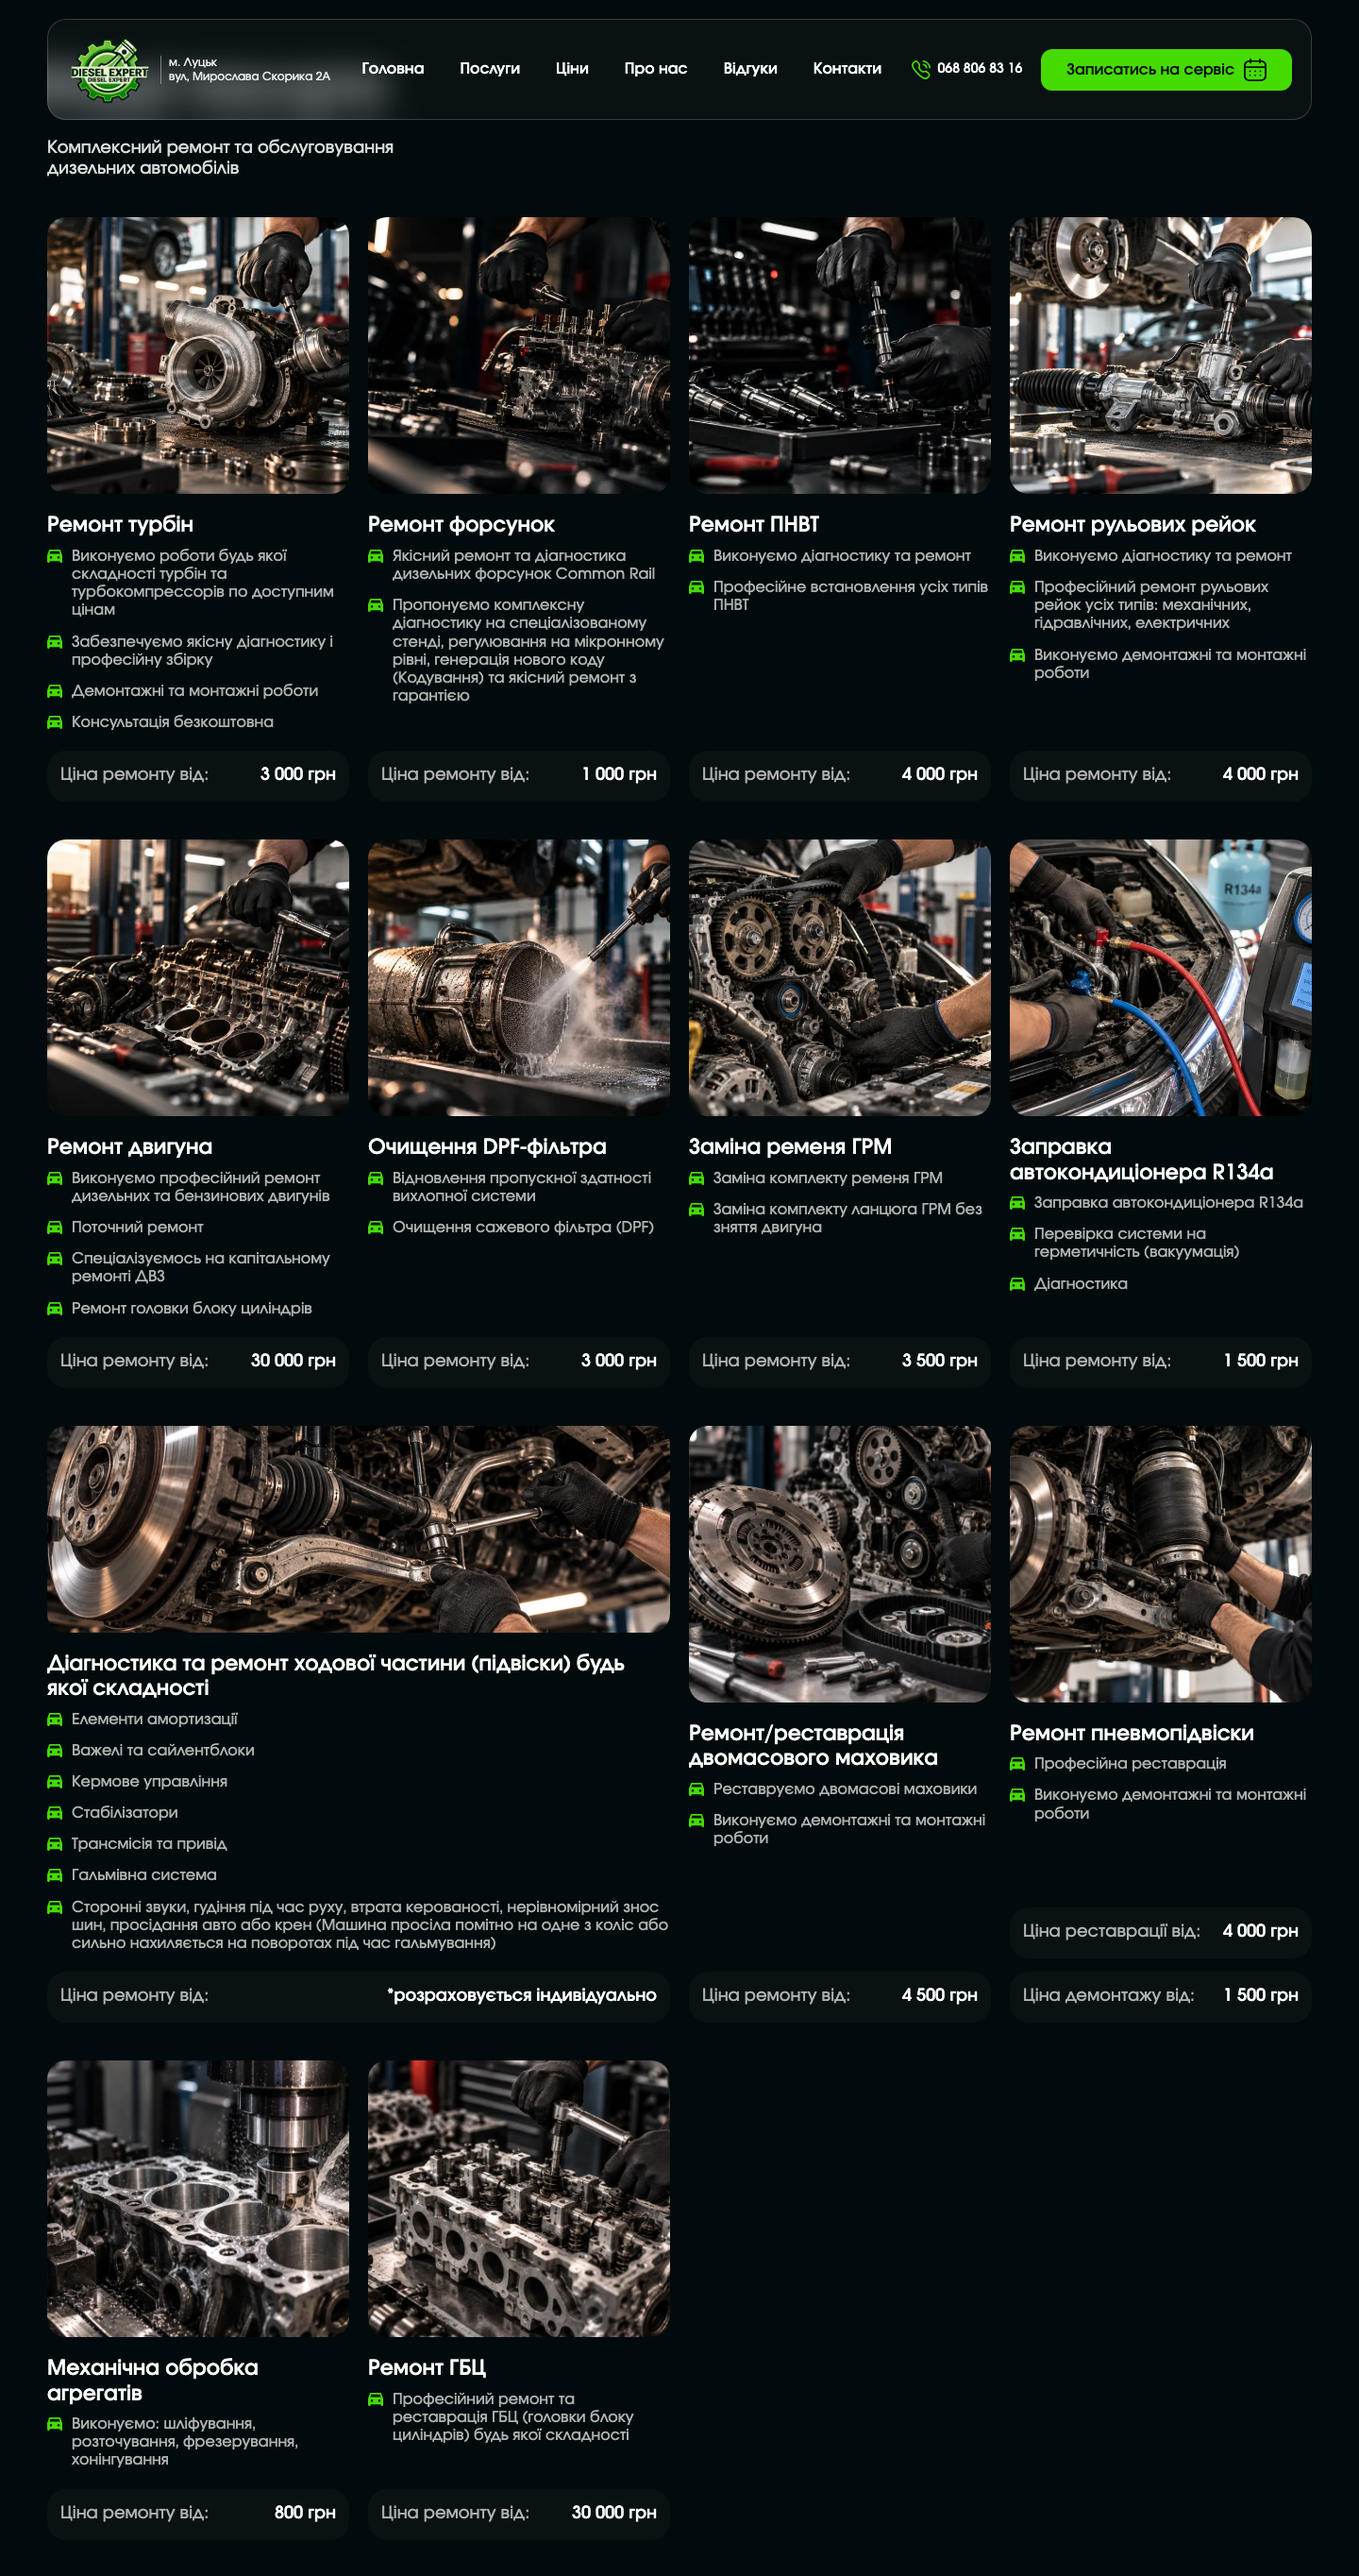
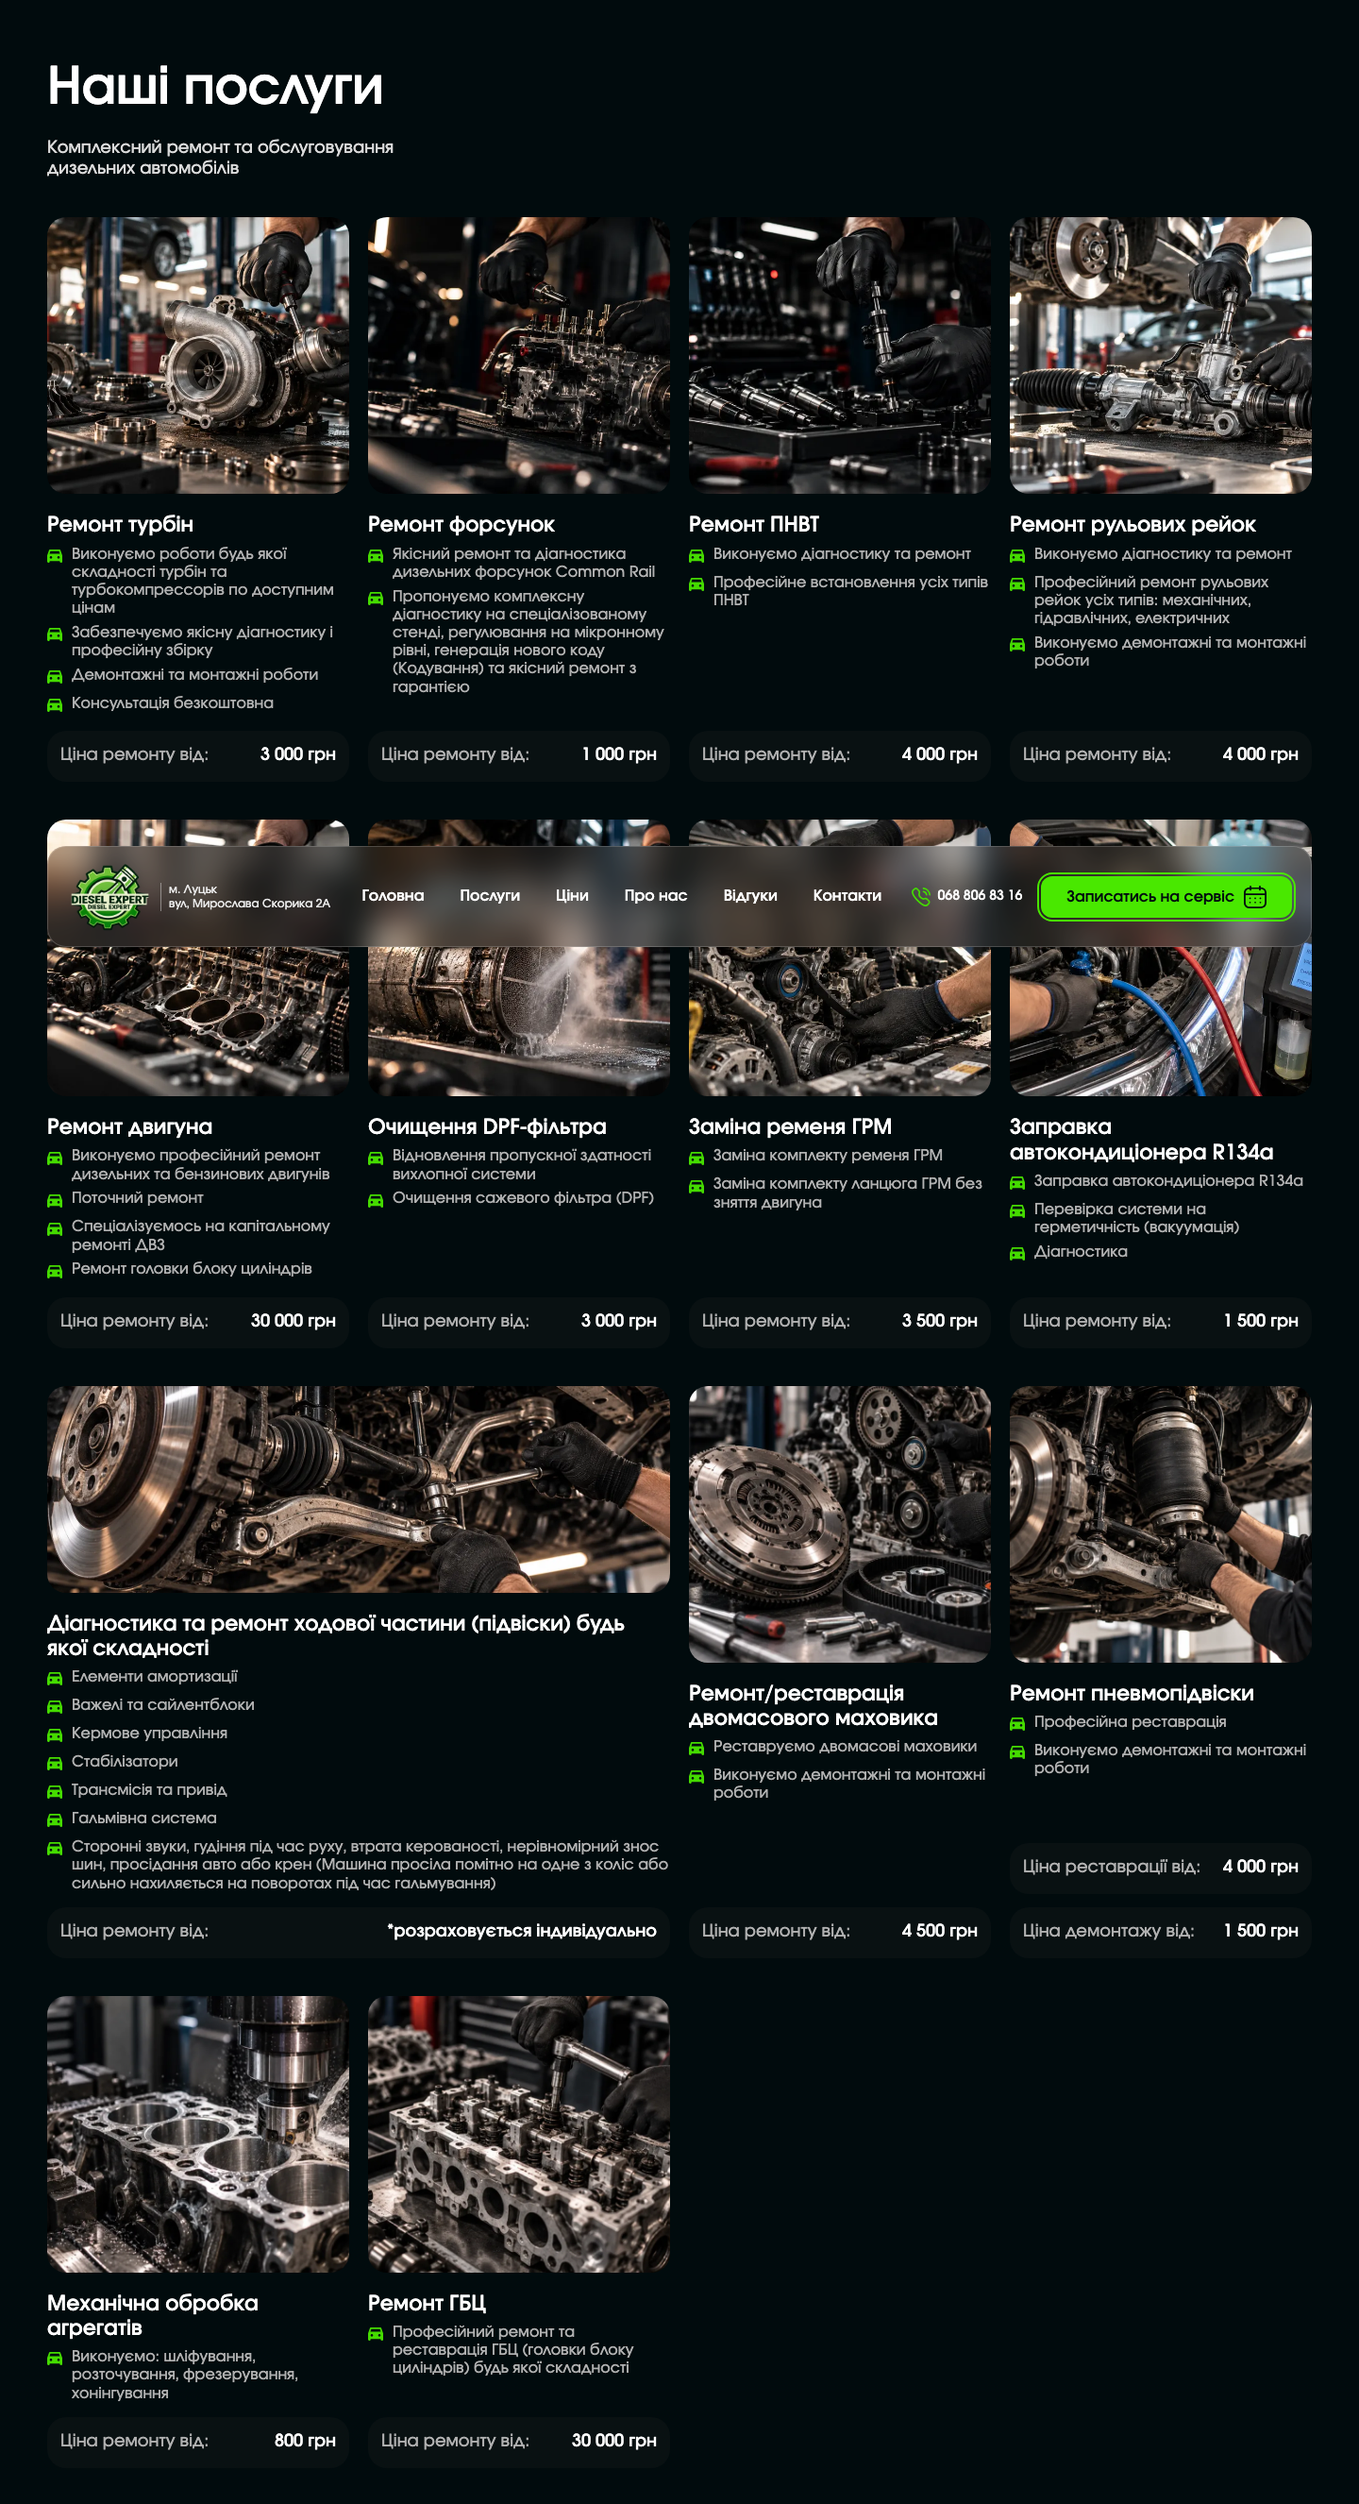
fix(services): привести висоту картки на 1440 до 598
Text-box trim з макета стискає буллети, тож типова картка збігається з Figma без зміни мобільного акордеона.

diff --git a/static/css/components.css b/static/css/components.css
@@ -428,6 +428,11 @@ select.field__control option[value=""] {
     height: 293px;
   }
 
+  .service-card__list li span {
+    text-box-trim: trim-both;
+    text-box-edge: cap alphabetic;
+  }
+
   .service-card--wide .service-card__photo {
     height: 219px;
   }
